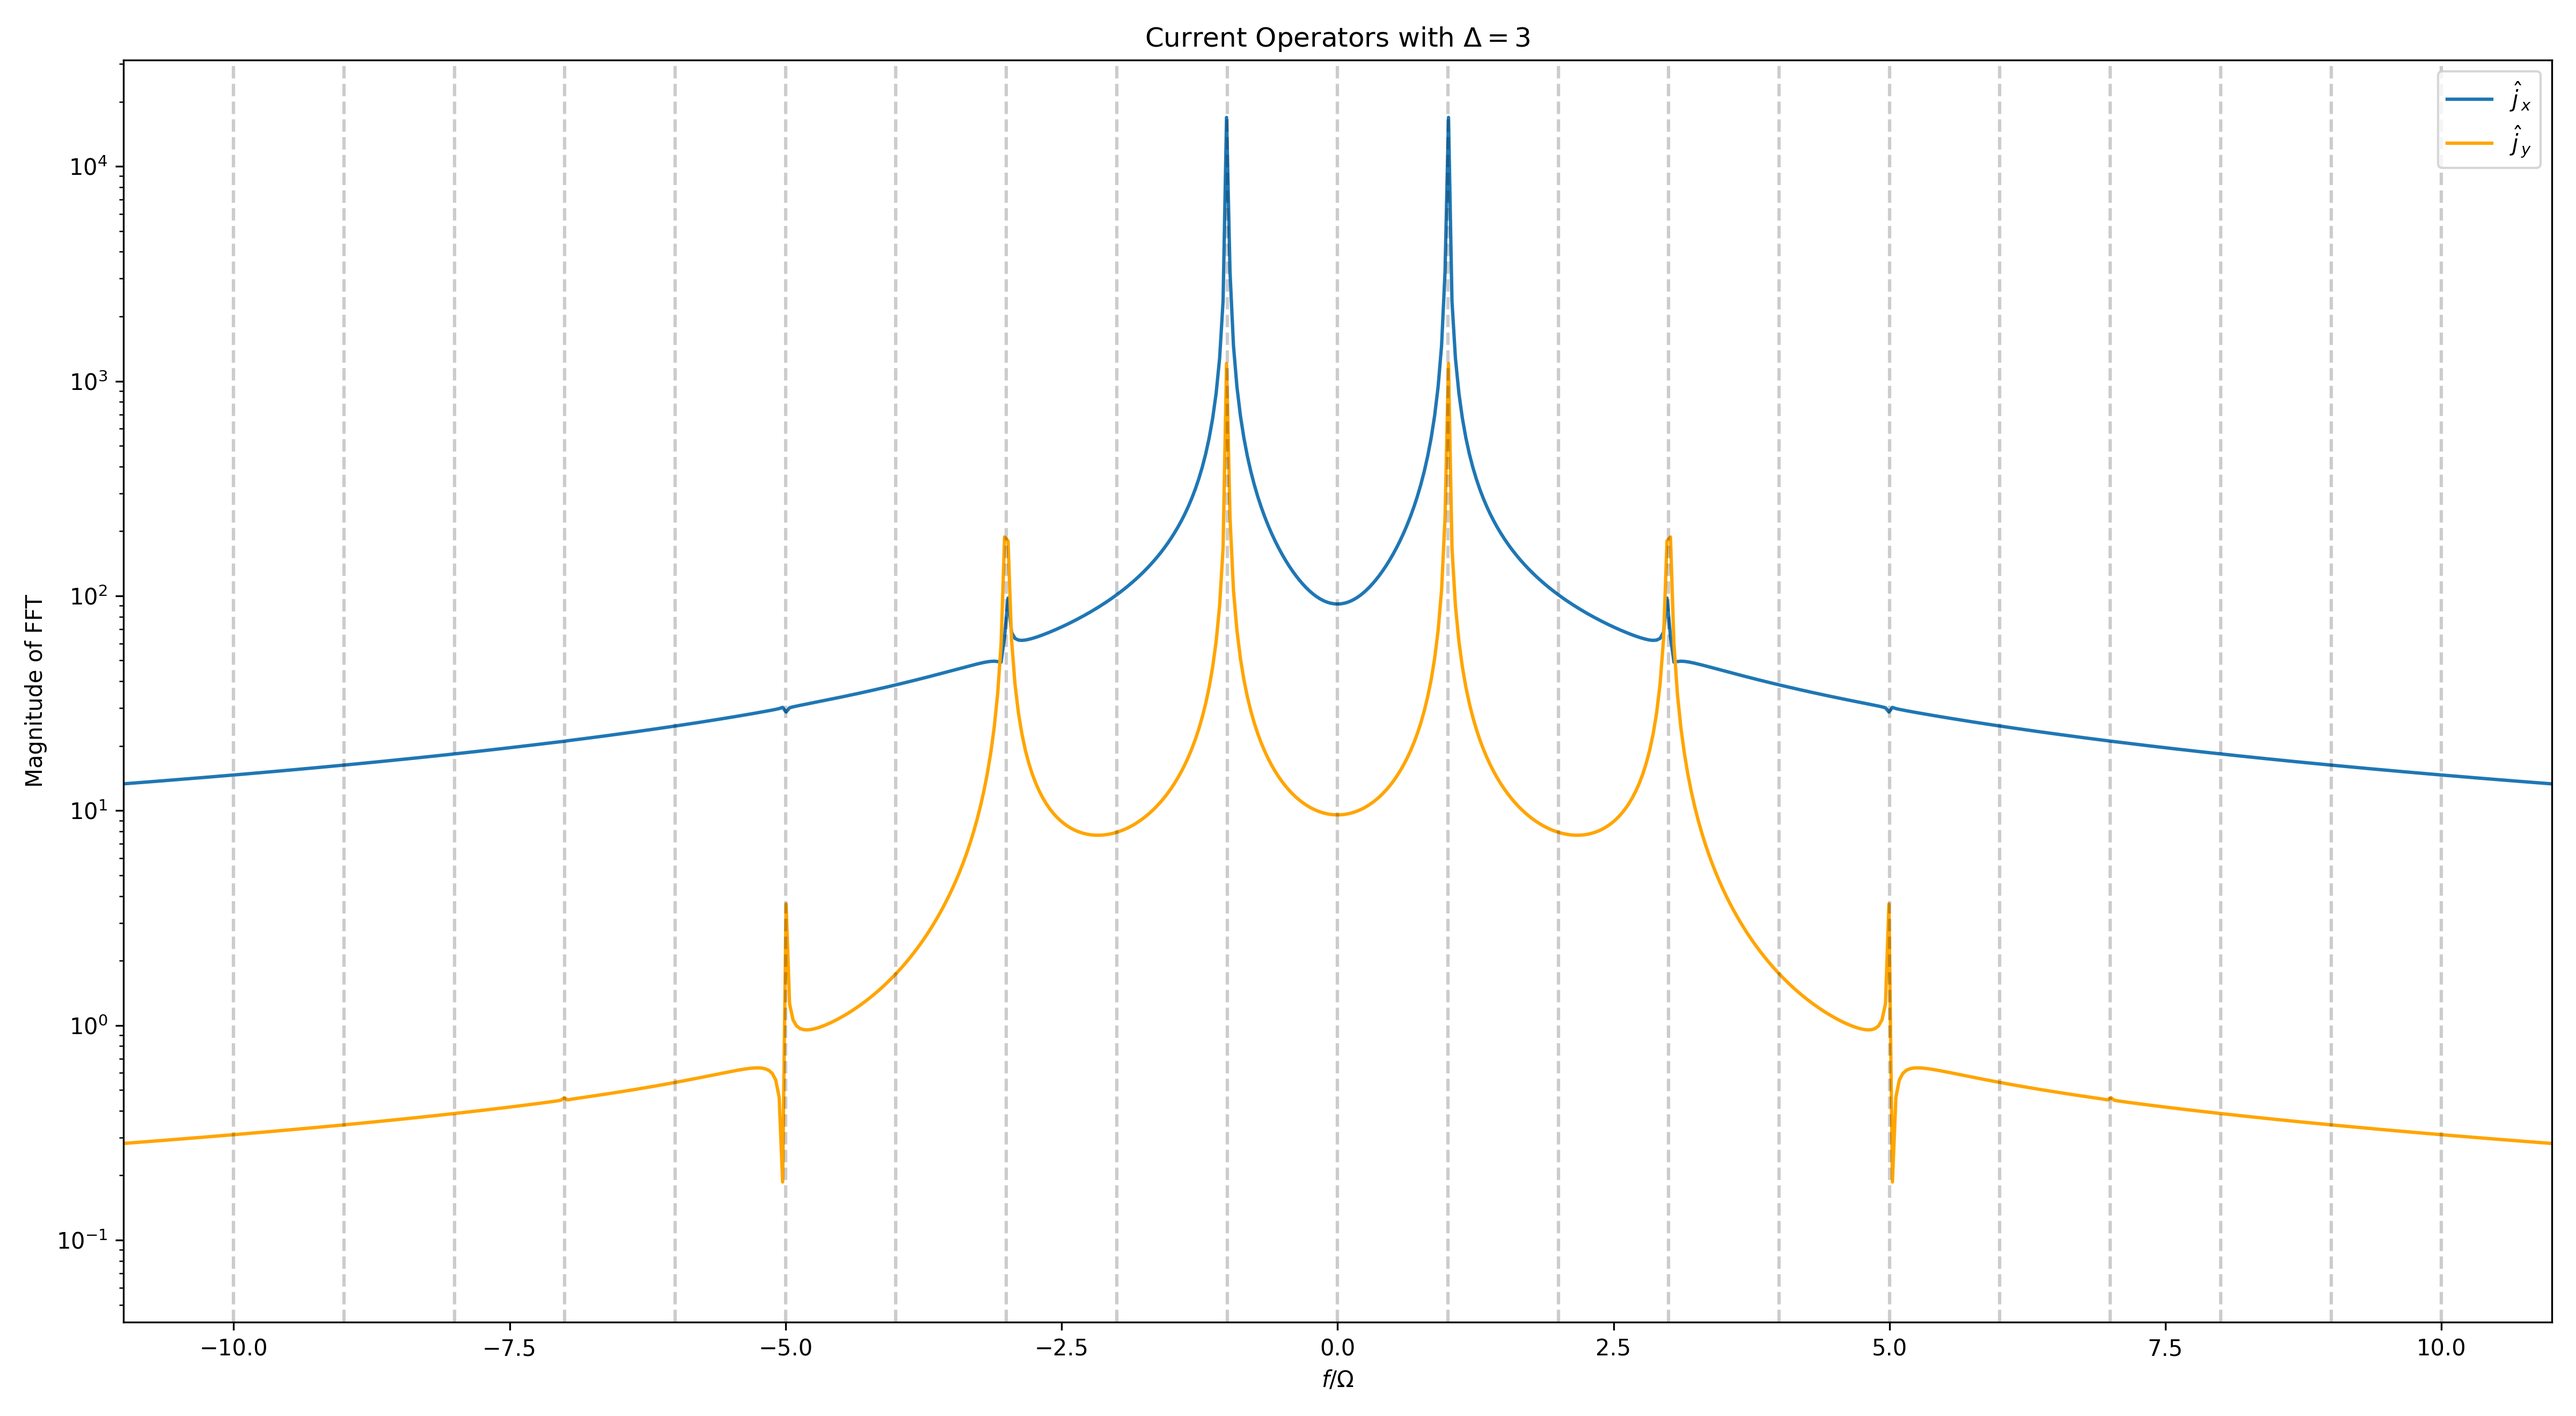
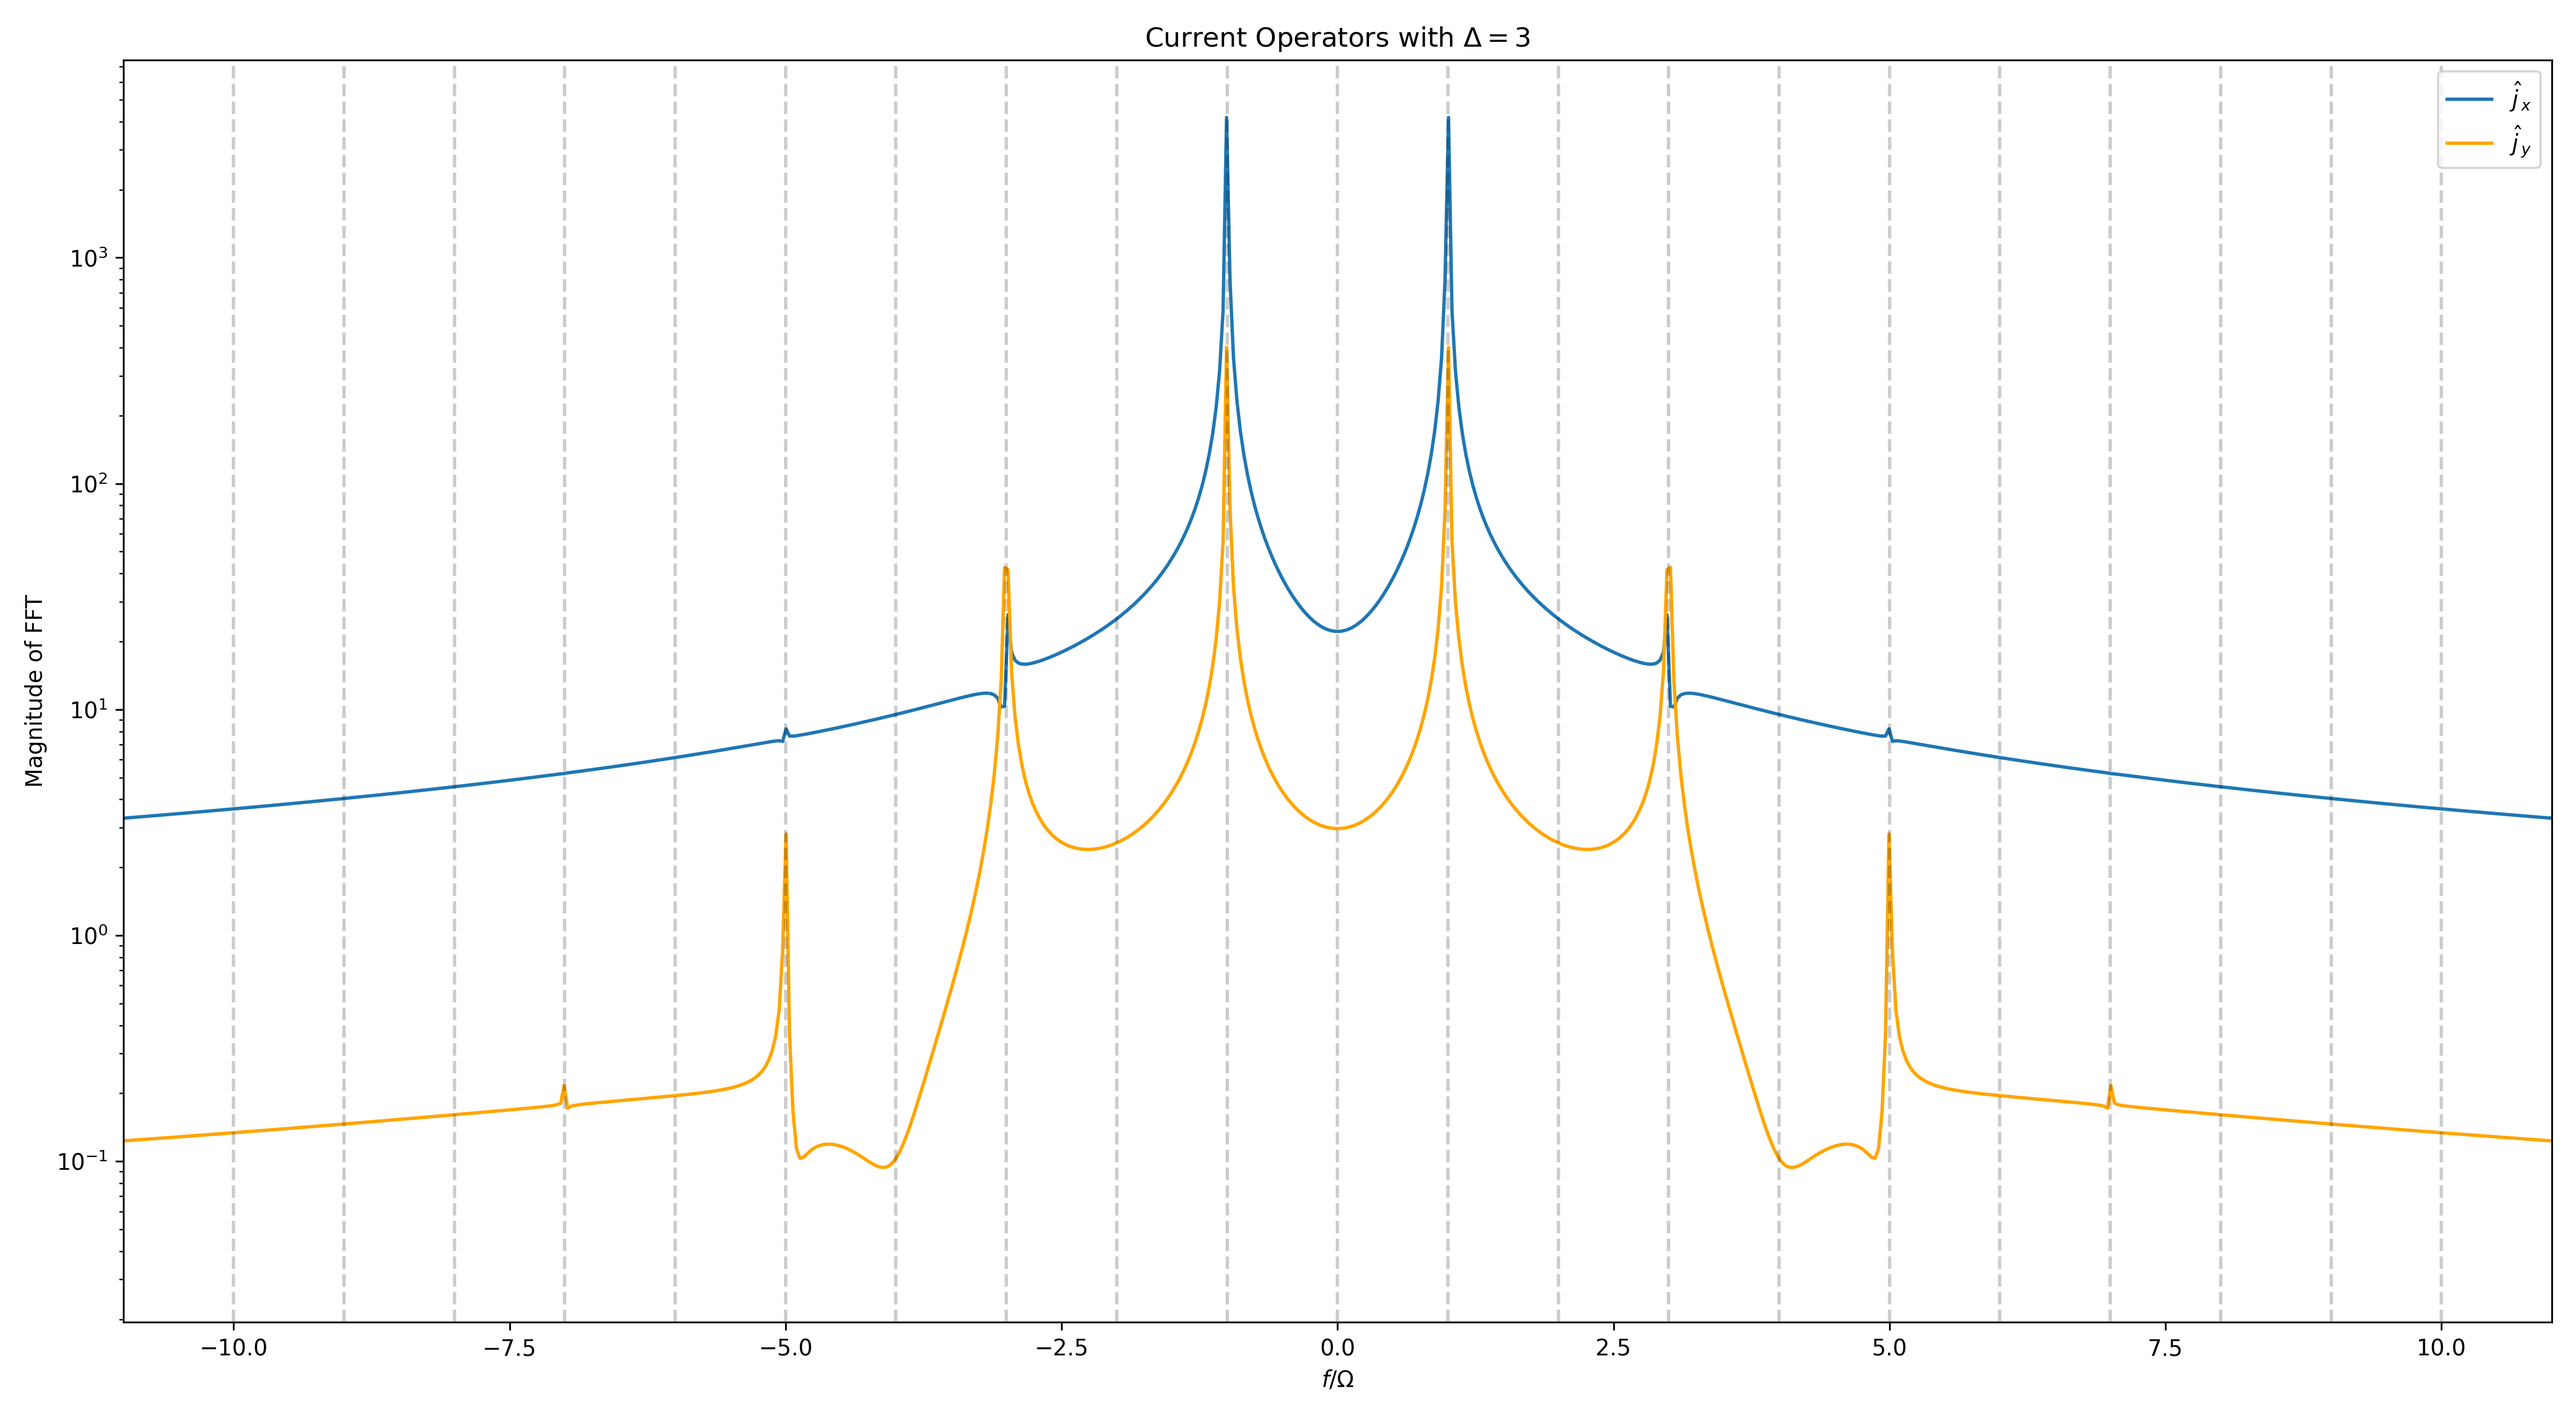
Tested whether double-counting the endpoints was the problem - doesn't seem to be.

diff --git a/chern_insulator/Ensemble.py b/chern_insulator/Ensemble.py
@@ -1,5 +1,6 @@
 import numpy as np
 from functools import cached_property
+import matplotlib.pyplot as plt
 
 from data import ModelParameters, EnsembleParameters, AxisData, CurrentData
 from Model import Model
@@ -93,7 +94,10 @@ class Ensemble:
         sqrtK = np.floor(np.sqrt(numK)).astype(int)
         axisPoints = np.linspace(-np.pi, np.pi, sqrtK)
         x, y = np.meshgrid(axisPoints, axisPoints)
-        
+
+        plt.scatter(x, y)
+        plt.show()
+ 
         # Stacks x and y so that the last axis differentiates between them.
         momentums = np.stack((x.flatten(), y.flatten()), axis=-1)
 

diff --git a/chern_insulator/main.py b/chern_insulator/main.py
@@ -6,7 +6,7 @@ from Ensemble import Ensemble
 from Plotting import Plotting
 
 # Number of TOTAL momentum points.
-numK = 26**2
+numK = 8**2
 tauMax = 50
 
 params = EnsembleParameters(
